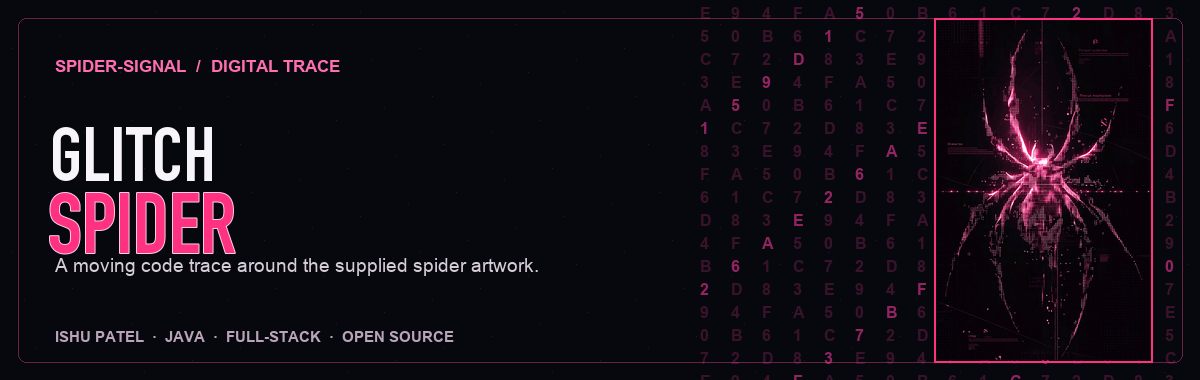
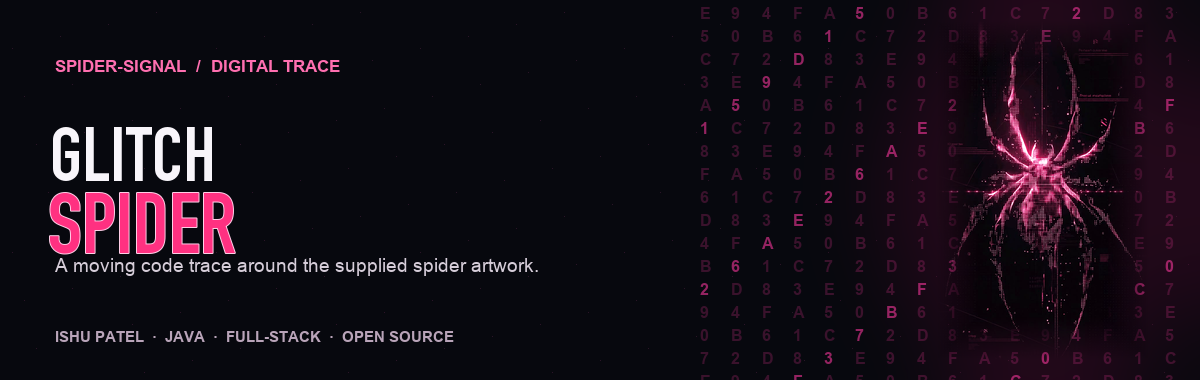
Blend glitch spider into animated signal

diff --git a/scripts/build_spider_art.py b/scripts/build_spider_art.py
@@ -195,7 +195,11 @@ def signal_poster(frame_index=0):
         for x in range(12, width, 12):
             if (x * 5 + y * 3) % 17 == 0:
                 d.point((x, y), fill=(42, 20, 39))
-    d.rounded_rectangle((18, 18, width - 18, height - 18), radius=8, outline=(104, 34, 68), width=1)
+    # A soft magenta haze anchors the portrait without a card or image frame.
+    glow = Image.new("RGBA", image.size, (0, 0, 0, 0))
+    ImageDraw.Draw(glow).ellipse((850, -30, 1235, 410), fill=(106, 10, 57, 70))
+    glow = glow.filter(ImageFilter.GaussianBlur(52))
+    image = Image.alpha_composite(image.convert("RGBA"), glow).convert("RGB")
 
     # Matrix-like hexadecimal columns scroll upward behind the spider portrait.
     matrix = Image.new("RGBA", image.size, (0, 0, 0, 0))
@@ -229,9 +233,15 @@ def signal_poster(frame_index=0):
         strip = portrait.crop((0, y, portrait.width, y + band_h))
         portrait.paste(strip, (shift, y))
         ImageDraw.Draw(portrait).line((0, y + band_h - 2, 70, y + band_h - 2), fill=(255, 230, 247), width=2)
-    image.paste(portrait, (936, 20))
-    d = ImageDraw.Draw(image)
-    d.rectangle((934, 18, 1152, 362), outline=(255, 49, 129), width=2)
+    # Feather all four edges so the artwork dissolves into the moving number field.
+    mask = Image.new("L", portrait.size, 0)
+    pixels = mask.load()
+    feather = 42
+    for y in range(portrait.height):
+        for x in range(portrait.width):
+            edge = min(x, y, portrait.width - 1 - x, portrait.height - 1 - y)
+            pixels[x, y] = min(255, int(255 * edge / feather))
+    image.paste(portrait, (936, 20), mask)
     return image
 
 

diff --git a/DESIGN.md b/DESIGN.md
@@ -5,7 +5,7 @@
 - **Job and audience:** make Ishu's GitHub profile immediately recognizable, easy to read, and useful to recruiters, collaborators, and open-source maintainers.
 - **Direction:** return to the richer ink, scarlet, magenta, and white Spider-Man composition from the approved reference. Keep the black-and-white Spider-Man figure prominent, restore the glowing white spider emblem, and use the supplied pink glitch-spider art as a second visual.
 - **Page rhythm:** bold hero; animated glitch-spider signal; account activity; focus; project showcase; stack; upstream contributions; contact. Keep verified facts and repository links in native Markdown.
-- **Motion:** the glitch-spider signal gets moving hacker-style digits behind its silhouette and short pixel-shear bursts. Give the Spider-Man hero occasional glitch cuts. Animate project illustrations with project-specific actions (parking slot, certificate seal, application sheet, health waveform). Keep motion local to GIF/SVG assets, unhurried, with still artwork for reduced-motion preferences.
+- **Motion:** the glitch-spider signal gets moving hexadecimal digits behind its silhouette and short pixel-shear bursts; feather the image edges into the number field without a rectangular frame. Give the Spider-Man hero occasional glitch cuts. Animate project illustrations with project-specific actions (parking slot, certificate seal, application sheet, health waveform). Keep motion local to GIF/SVG assets, unhurried, with still artwork for reduced-motion preferences.
 - **Readability:** large names, project titles, and labels; high contrast; compact supporting detail. Theme every custom panel in the same deep ink base, scarlet edges, magenta signal color, and white type.
 - **Boundaries:** don't add made-up account activity or skills. Keep project claims, demos, and merged PR references accurate. GitHub owns the surrounding profile CSS, so match the artwork to its dark surface instead of styling the page shell.
 
